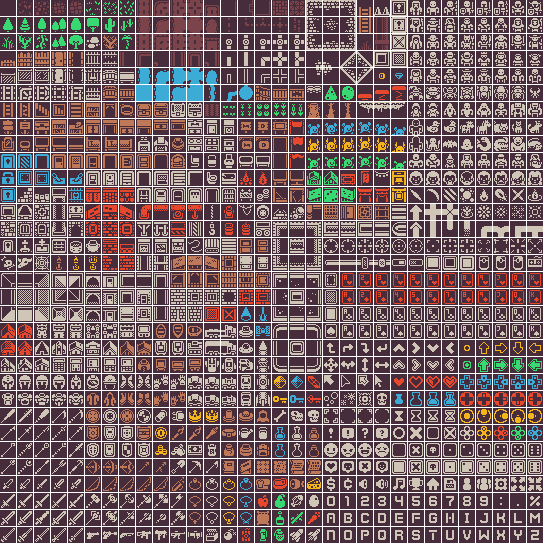
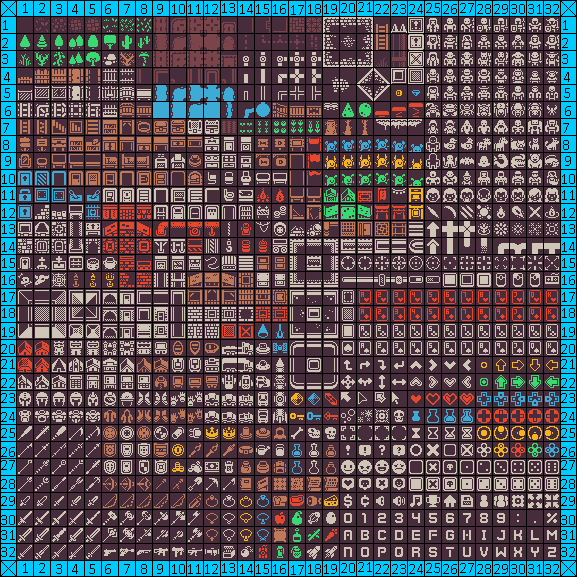
random decorations are set per room

diff --git a/src/main/java/com/example/dungeaoncrawler/logic/WorldMap.java b/src/main/java/com/example/dungeaoncrawler/logic/WorldMap.java
@@ -6,18 +6,22 @@ import java.lang.reflect.Array;
 import java.util.*;
 import java.util.concurrent.ThreadLocalRandom;
 
+/**A war crime
+ * @author Krzysiek*/
 public class WorldMap {
     private final int floor;
     private final int currMapX;
     private final int currMapY;
-    private final int worldWidth = 20;
-    private final int worldHeight = 20;
+    private final int worldWidth = 11;
+    private final int worldHeight = 11;
     private final GameMap[][] gameMaps = new GameMap[worldWidth][worldHeight];
     private final Random random = new Random();
     private final int normalRoomCount = random.nextInt(8, 15);
     private final int specialRoomCount = random.nextInt(3, 6);
     private final ArrayList<GameMap> gameMapStorage = new ArrayList<>();
 
+    /** WorldMap constructor
+     * @param floor Might be used in the future, numerical representation on the current floor (in case we go deeper) */
     public WorldMap (int floor) {
         this.floor = floor;
         placeSpawn();
@@ -34,6 +38,9 @@ public class WorldMap {
         placeMap(RoomType.LAST);
     }
 
+    /** Grab GameMap from WorldMap on specified coordinates
+     * @param x X location of the GameMap on the WorldMap
+     * @param y Y location of the GameMap on the WorldMap*/
     public GameMap getGameMap (int x, int y) {
         return gameMaps[x][y];
     }
@@ -42,6 +49,8 @@ public class WorldMap {
         return new int[]{currMapX, currMapY};
     }
 
+
+    /** Places the spawn GameMap in the center of the WorldMap*/
     private void placeSpawn () {
         GameMap map = MapLoader.loadMap(RoomType.SPAWN, worldWidth/2, worldHeight/2);
         Player player = new Player(map.getCell(map.getWidth()/2, map.getHeight()/2));
@@ -50,6 +59,9 @@ public class WorldMap {
 
     }
 
+
+    /** Places GameMap on the WorldMap
+     * @param roomType Used to specify what type of the room we're placing*/
     private void placeMap (RoomType roomType) {
         ArrayList<ArrayList<ArrayList<Integer>>> possibleRoomPositions = getPossibleRoomPositions();
         ArrayList<ArrayList<Integer>> selectedCoordinates = possibleRoomPositions.get(ThreadLocalRandom.current().nextInt(0, possibleRoomPositions.size()));
@@ -74,6 +86,11 @@ public class WorldMap {
         gameMapStorage.add(map);
     }
 
+
+    /**Gets possible room positions for the current world map.
+     * It will not allow for a room to be adjacent to a room it's not connected to.
+     * I sincerely hope no one ever reads this code.
+    * @return List of lists of pairs for room options and where they connect to*/
     private ArrayList<ArrayList<ArrayList<Integer>>> getPossibleRoomPositions () {
         ArrayList<ArrayList<ArrayList<Integer>>> possibleRoomPositions = new ArrayList<>();
         for (GameMap gameMap:gameMapStorage) {
@@ -126,10 +143,7 @@ public class WorldMap {
         return possibleRoomPositions;
     }
 
-    private void addMap (int coordinateX, int coordinateY, RoomType roomType) {
-
-    }
-
+    /** neat little toString() override :)*/
     @Override
     public String toString() {
         StringBuilder returnString = new StringBuilder();

diff --git a/src/main/java/com/example/dungeaoncrawler/logic/Cell.java b/src/main/java/com/example/dungeaoncrawler/logic/Cell.java
@@ -4,15 +4,17 @@ import com.example.dungeaoncrawler.logic.actors.Actor;
 
 public class Cell implements Drawable {
     private CellType type;
+    private CellDecoration decoration;
     private Actor actor;
     private GameMap gameMap;
     private int x, y;
 
-    Cell(GameMap gameMap, int x, int y, CellType type) {
+    Cell(GameMap gameMap, int x, int y, CellType type, CellDecoration decoration) {
         this.gameMap = gameMap;
         this.x = x;
         this.y = y;
         this.type = type;
+        this.decoration = decoration;
     }
 
     public CellType getType() {
@@ -21,6 +23,10 @@ public class Cell implements Drawable {
 
     public void setType(CellType type) {
         this.type = type;
+    }
+
+    public void setDecoration (CellDecoration decoration) {
+        this.decoration = decoration;
     }
 
     public void setActor(Actor actor) {
@@ -36,8 +42,17 @@ public class Cell implements Drawable {
     }
 
     public int[] getCellImageCoords() {
+        if (getActor() != null) {
+            return actor.getActorType().getActorImageCoords();
+        } else if (type != CellType.EMPTY) {
+            return type.getCellImageCoords();
+        } else if (decoration != null) {
+            return decoration.getDecorationImageCoords();
+        }
         return type.getCellImageCoords();
     }
+
+
 
     public int getX() {
         return x;

diff --git a/src/main/java/com/example/dungeaoncrawler/HelloController.java b/src/main/java/com/example/dungeaoncrawler/HelloController.java
@@ -17,7 +17,6 @@ import javafx.scene.shape.Rectangle;
 public class HelloController {
     ImageView imageView = new ImageView("img.png");
     ImageView imageView1 = new ImageView("img.png");
-    WorldMap worldMap = new WorldMap(1);
 
     @FXML
     private GridPane gridMap;
@@ -28,10 +27,14 @@ public class HelloController {
     @FXML
     private GridPane actorMap;
 
-    private final Image tileset = new Image("mapObjects.png", 543 * 2, 543 * 2, true, false);
+    private final Image tileset = new Image("mapObjects.png", 577 * 2, 577 * 2, true, false);
 
     @FXML
     void printMap(ActionEvent event) {
+        //todo: find a way to fit game logic elsewhere
+        WorldMap worldMap = new WorldMap(1);
+
+        gridMap.getChildren().clear();
 //        Image tileset = new Image("tiles.png");
 //        GameMap map = MapLoader.loadMap();
         GameMap map = worldMap.getGameMap(worldMap.getCurrentPos()[0],worldMap.getCurrentPos()[1]);
@@ -48,6 +51,7 @@ public class HelloController {
                 gridMap.add(imageView,i,j);
             }
         }
+        System.out.println(gridMap.getChildren().size());
         System.out.println(worldMap.toString());
 //        Rectangle b = new Rectangle(32,16,Color.BLACK);
 //        actorMap.add(whatever, 0, 0);

diff --git a/src/main/java/com/example/dungeaoncrawler/logic/MapLoader.java b/src/main/java/com/example/dungeaoncrawler/logic/MapLoader.java
@@ -5,10 +5,12 @@ import com.example.dungeaoncrawler.logic.actors.Skeleton;
 
 import java.io.InputStream;
 import java.util.*;
+import java.util.concurrent.ThreadLocalRandom;
 
 public class MapLoader {
     static Random random = new Random();
     static CellType[] values = CellType.values();
+    static CellDecoration[] cellDecorations = CellDecoration.values();
 
     public static GameMap loadMap(RoomType roomType, int worldPosX, int worldPosY) {
         int width = 25;
@@ -19,7 +21,9 @@ public class MapLoader {
                 Cell cell = map.getCell(x, y);
                 if (x == 0 || x == width-1 || y == 0 || y == height-1) {
                     cell.setType(CellType.WALL);
+
                 }
+                cell.setDecoration(randomCellDecoration(10));
             }
         }
         return map;
@@ -31,4 +35,10 @@ public class MapLoader {
         return values[random.nextInt(values.length)];
     }
 
+    static CellDecoration randomCellDecoration(int chance) {
+        if (ThreadLocalRandom.current().nextInt(chance) == 1) {
+            return cellDecorations[ThreadLocalRandom.current().nextInt(cellDecorations.length)];
+        }
+        return null;
+    }
 }

diff --git a/src/main/java/com/example/dungeaoncrawler/logic/actors/Actor.java b/src/main/java/com/example/dungeaoncrawler/logic/actors/Actor.java
@@ -6,10 +6,12 @@ import com.example.dungeaoncrawler.logic.Drawable;
 public abstract class Actor implements Drawable {
     private Cell cell;
     private int health = 10;
+    private ActorType actorType;
 
-    public Actor(Cell cell) {
+    public Actor(Cell cell, ActorType actorType) {
         this.cell = cell;
         this.cell.setActor(this);
+        this.actorType = actorType;
     }
 
     public void move(int dx, int dy) {
@@ -21,6 +23,10 @@ public abstract class Actor implements Drawable {
 
     public int getHealth() {
         return health;
+    }
+
+    public ActorType getActorType () {
+        return actorType;
     }
 
     public Cell getCell() {

diff --git a/src/main/java/com/example/dungeaoncrawler/logic/actors/ActorType.java b/src/main/java/com/example/dungeaoncrawler/logic/actors/ActorType.java
@@ -1,8 +1,8 @@
 package com.example.dungeaoncrawler.logic.actors;
 
 public enum ActorType {
-    PLAYER(24, 0, "player"),
-    SKELETON(29, 6, "skeleton");
+    PLAYER(25, 1, "player"),
+    SKELETON(30, 7, "skeleton");
 
     private final int x;
     private final int y;
@@ -14,7 +14,7 @@ public enum ActorType {
         this.tileName = tileName;
     }
 
-    public int[] getCellImageCoords() {
+    public int[] getActorImageCoords() {
         return new int[]{x, y};
     }
     public String getTileName() {

diff --git a/src/main/java/com/example/dungeaoncrawler/logic/CellDecoration.java b/src/main/java/com/example/dungeaoncrawler/logic/CellDecoration.java
@@ -1,0 +1,25 @@
+package com.example.dungeaoncrawler.logic;
+
+public enum CellDecoration {
+    EMPTY(1, 1),
+    FLOOR1(2, 1),
+    FLOOR2(3, 1),
+    FLOOR3(4, 1),
+    FLOOR4(5, 1),
+    GRASS1(6, 1),
+    GRASS2(7, 1),
+    GRASS3(8,1),
+    PLANTS1(1, 3);
+
+    private final int x;
+    private final int y;
+
+    CellDecoration(int x, int y) {
+        this.x = x;
+        this.y = y;
+    }
+
+    public int[] getDecorationImageCoords() {
+        return new int[]{x, y};
+    }
+}

diff --git a/src/main/java/com/example/dungeaoncrawler/logic/GameMap.java b/src/main/java/com/example/dungeaoncrawler/logic/GameMap.java
@@ -30,7 +30,7 @@ public class GameMap {
         cells = new Cell[width][height];
         for (int x = 0; x < width; x++) {
             for (int y = 0; y < height; y++) {
-                cells[x][y] = new Cell(this, x, y, defaultCellType);
+                cells[x][y] = new Cell(this, x, y, defaultCellType, CellDecoration.EMPTY);
             }
         }
     }

diff --git a/src/main/java/com/example/dungeaoncrawler/logic/CellType.java b/src/main/java/com/example/dungeaoncrawler/logic/CellType.java
@@ -1,10 +1,9 @@
 package com.example.dungeaoncrawler.logic;
 
 public enum CellType {
-    EMPTY(0, 0, "empty"),
-    FLOOR(2, 0, "floor"),
-    WALL(6, 11, "wall"),
-    DOOR(8, 10, "door");
+    EMPTY(1, 1, "empty"),
+    WALL(7, 12, "wall"),
+    DOOR(9, 11, "door");
 
     private final int x;
     private final int y;

diff --git a/src/main/java/com/example/dungeaoncrawler/logic/actors/Player.java b/src/main/java/com/example/dungeaoncrawler/logic/actors/Player.java
@@ -4,7 +4,7 @@ import com.example.dungeaoncrawler.logic.Cell;
 
 public class Player extends Actor {
     public Player(Cell cell) {
-        super(cell);
+        super(cell, ActorType.PLAYER);
     }
 
     public String getTileName() {

diff --git a/src/main/java/com/example/dungeaoncrawler/logic/actors/Skeleton.java b/src/main/java/com/example/dungeaoncrawler/logic/actors/Skeleton.java
@@ -4,7 +4,7 @@ import com.example.dungeaoncrawler.logic.Cell;
 
 public class Skeleton extends Actor {
     public Skeleton(Cell cell) {
-        super(cell);
+        super(cell, ActorType.SKELETON);
     }
 
     @Override
